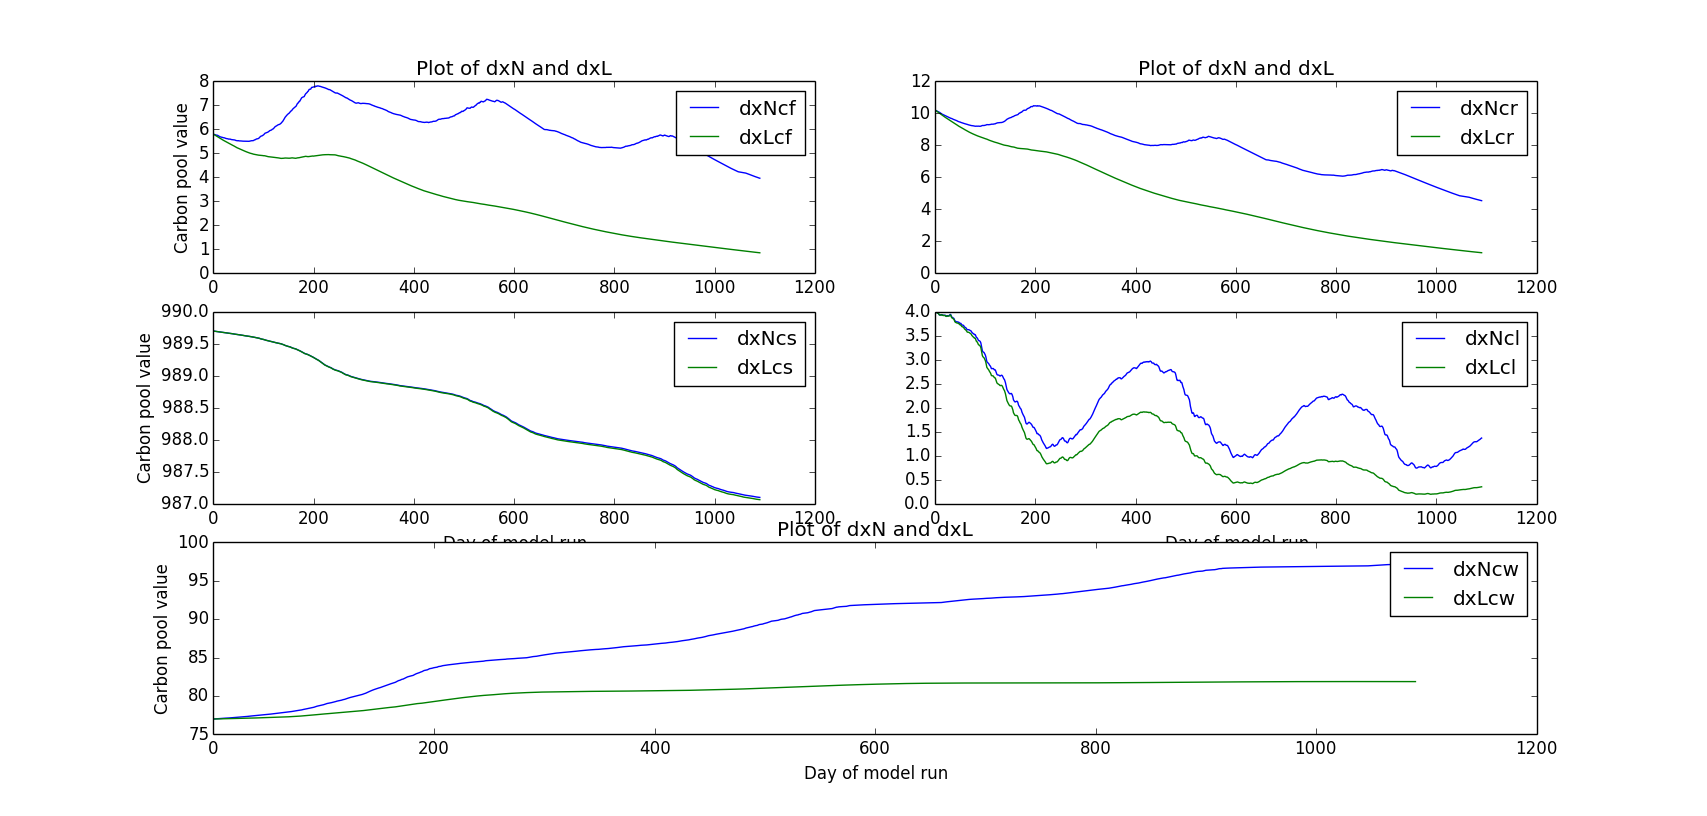
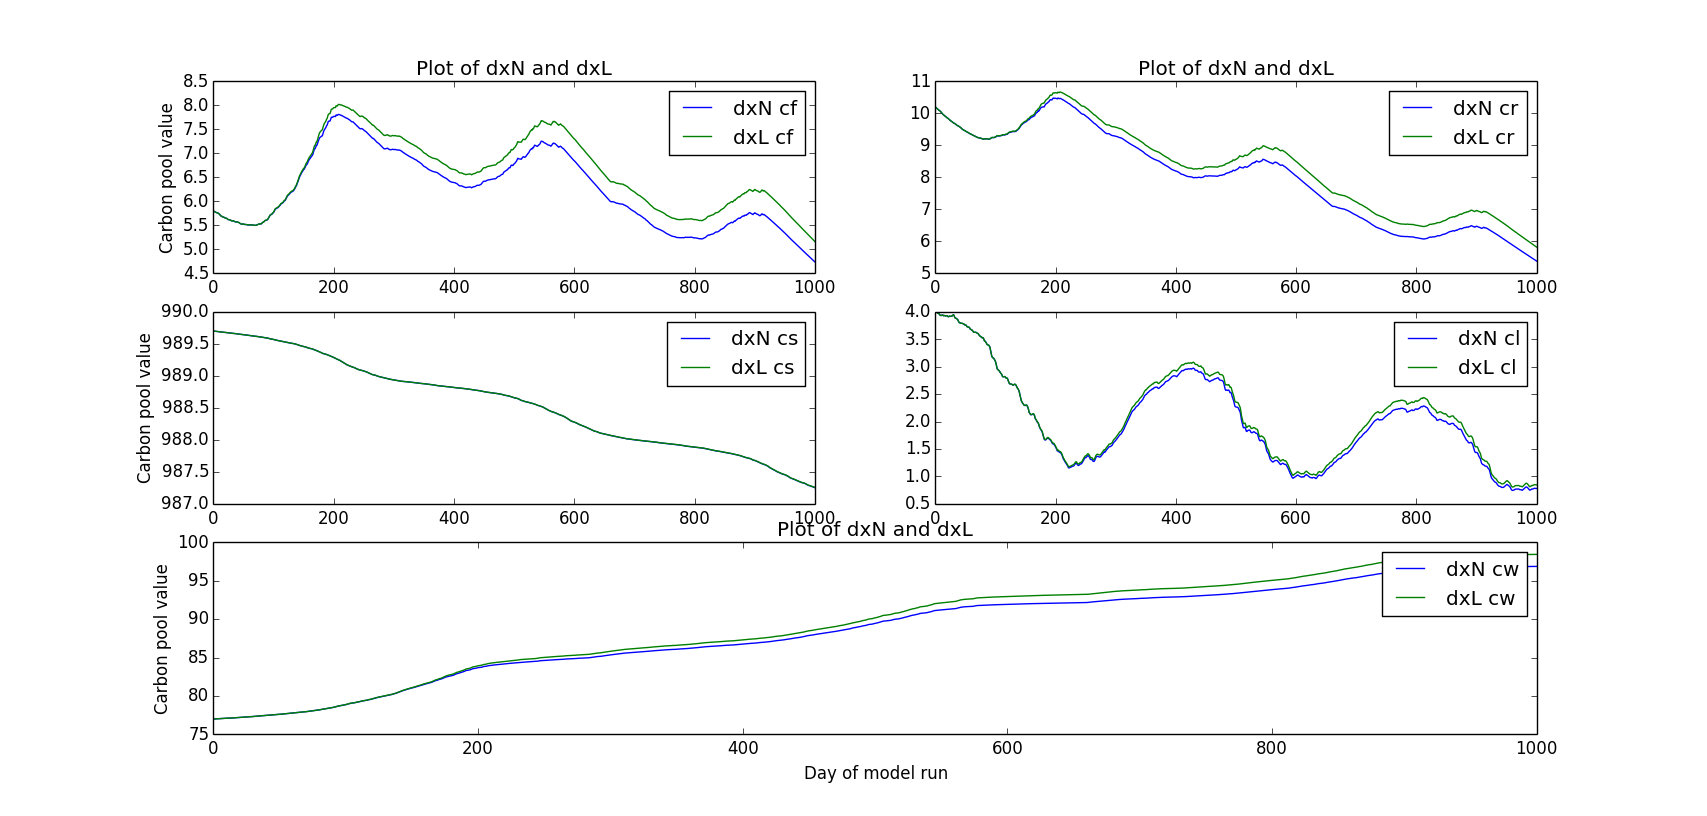
added some tests, sorted out linerr plot

diff --git a/src/test/test_model.py b/src/test/test_model.py
@@ -1,10 +1,41 @@
 """Tests for functions in Model.py file
 """
 
+import numpy as np
 from model import Model as M
 from model import Data as D
 
 
-def test_NEE():
+
+def test_nee():
     dC=D.dalecData(1095)
     assert M.NEE(0,0,0,0,0,0,dC) == 0
+    
+    
+def test_gpp_derivative():
+    datx = D.dalecData(1096)
+    datdx = D.dalecData(1096)
+    datdx.Cf = datdx.Cf*0.1
+    lam = 0.01
+    mxdxgpp = M.GPP(datx.Cf+lam*datdx.Cf, datx, 0)
+    mxgpp = M.GPP(datx.Cf, datx, 0)
+    Mgpp = M.GPPdiff(datx.Cf, datx, 0)    
+    print abs((mxdxgpp-mxgpp)/(Mgpp*lam*datdx.Cf)-1)
+    assert abs(((mxdxgpp-mxgpp) / (Mgpp*lam*datdx.Cf))-1) < 1e-5
+    
+    
+def test_lin_model():
+    datx = D.dalecData(1096)
+    datdx = D.dalecData(1096)
+    datxdx = D.dalecData(1096)
+    lam = 0.1
+    datdx.Clist = lam*0.1*datdx.Clist
+    datxdx.Clist = datxdx.Clist+lam*0.1*datxdx.Clist
+    mxdxgpp = M.Clist(datxdx, 0, 10)
+    mxgpp = M.Clist(datx, 0, 10)
+    Matlist = M.Mlist(datx, 0, 10)
+    Mgpp = M.Clist_lin(datdx, 0, 10, Matlist)    
+    print abs(np.linalg.norm(mxdxgpp[10]-mxgpp[10]) /  \
+              np.linalg.norm(Mgpp[10]) - 1)
+    assert abs((np.linalg.norm(mxdxgpp[10]-mxgpp[10]) / \
+                np.linalg.norm(Mgpp[10]))-1) < 1e-9

diff --git a/src/model/Plot.py b/src/model/Plot.py
@@ -90,7 +90,8 @@ def PlotLinModerr(d, i, j, Cpool):
 
     d3 = cp.copy(d)
     d3.Clist = d3.Clist*0.1
-    dxL = Mod.Clist_lin(d3, i, j)
+    Matlist = Mod.Mlist(d, i, j)
+    dxL = Mod.Clist_lin(d3, i, j, Matlist)
 
     dxN = Clistxdx - Clistx
 
@@ -110,11 +111,9 @@ def Subplot_err(d, i, j):
     plt.title('Plot of dxN and dxL')
     plt.subplot(3,2,3) 
     PlotLinModerr(d, i, j, 'cs')
-    plt.xlabel('Day of model run')
     plt.ylabel('Carbon pool value') 
     plt.subplot(3,2,4)
     PlotLinModerr(d, i, j, 'cl')
-    plt.xlabel('Day of model run')
     plt.subplot(3,1,3)
     PlotLinModerr(d, i, j, 'cw')
     plt.xlabel('Day of model run')

diff --git a/src/model/Model.py b/src/model/Model.py
@@ -94,9 +94,8 @@ def Clist(d,i,j): #Produces a list of carbon pool values and tangent linear matr
     return Clist
 
 
-def Clist_lin(d,i,j):
+def Clist_lin(d, i, j, Matlist):
     Clist = np.concatenate((d.Clist, np.ones((j - i,5))*-9999.))
-    Matlist = Mlist(d,i,j)
     for x in xrange(i, j):
         Clist[x-i+1] = (Matlist[x-i]*np.matrix(Clist[x-i]).T).T
     return Clist
